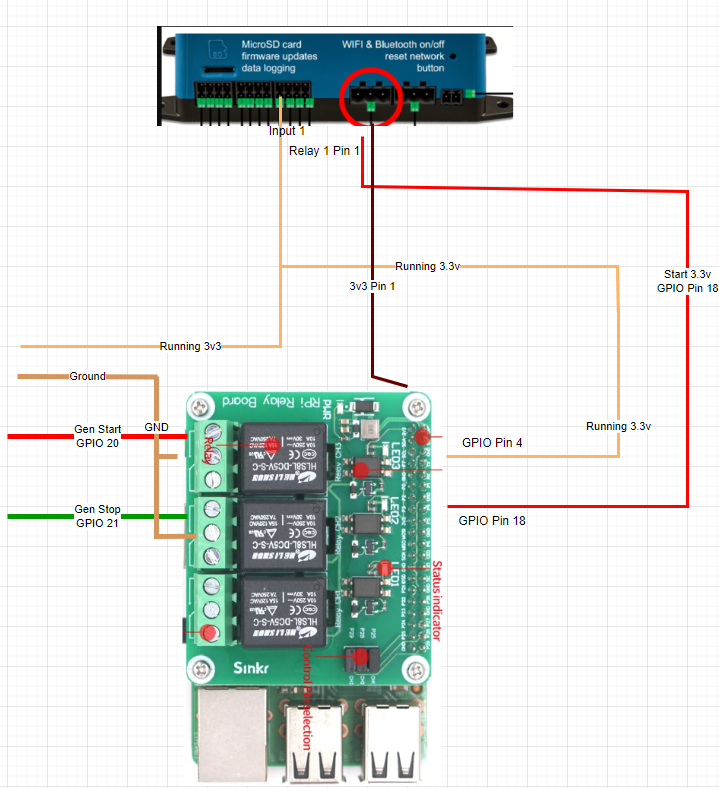
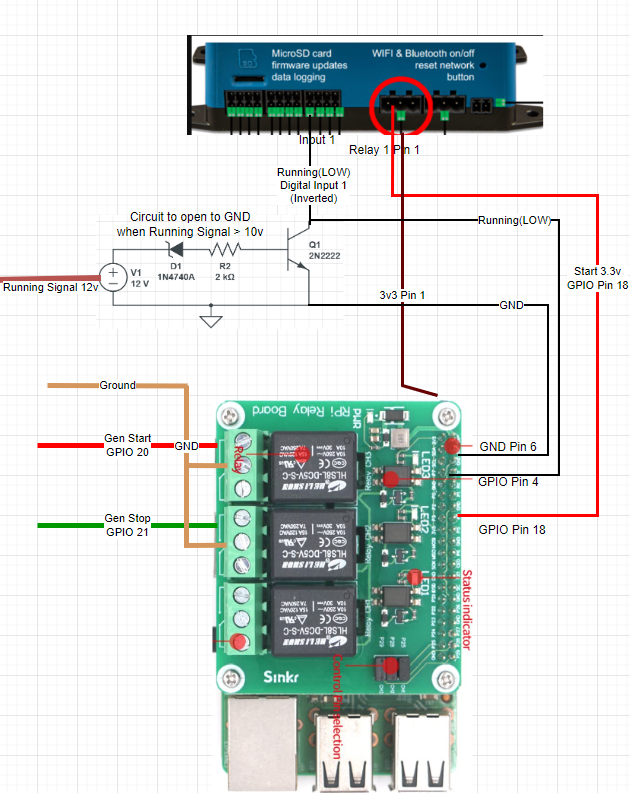
Changing to support low side running signal.

diff --git a/OnanGensetControl/Application.cs b/OnanGensetControl/Application.cs
@@ -50,7 +50,7 @@ public partial class Application : BackgroundService
         startRelay = pinControlFactory.CreateRelayControl(startPin, PinMode.Output, PinValue.High, loggerFactory);
         stopRelay = pinControlFactory.CreateRelayControl(stopPin, PinMode.Output, PinValue.High, loggerFactory);
         runCommandInput = pinControlFactory.CreateRelayControl(runControlPin, PinMode.Input, PinValue.Low, loggerFactory);
-        statusInput = pinControlFactory.CreateRelayControl(runningStatusPin, PinMode.InputPullDown, PinValue.Low, loggerFactory);
+        statusInput = pinControlFactory.CreateRelayControl(runningStatusPin, PinMode.InputPullUp, PinValue.High, loggerFactory);
 
         serviceFreq = TimeSpan.FromMilliseconds(Config.GetValue<int>("ServiceFreqMs"));
         stopDuration = TimeSpan.FromMilliseconds(Config.GetValue<int>("StopT4Ms"));
@@ -75,7 +75,7 @@ public partial class Application : BackgroundService
             var sw = Stopwatch.StartNew();
             try
             {
-                var running = statusInput.IsHigh;
+                var running = !statusInput.IsHigh; // Low is running
                 var runControl = runCommandInput.IsHigh;
                 Logger.LogDebug($"RunControl: {runControl}, Running: {running}, Failed: {failureTime is not null}");
 
@@ -183,7 +183,7 @@ public partial class Application : BackgroundService
             // Wait a moment after the start signal before getting the new status
             Logger.LogDebug($"Waiting for {startStatusCheckDelayDuration.TotalMilliseconds}ms before checking status...");
             await Task.Delay(startStatusCheckDelayDuration, stoppingToken);
-            running = statusInput.IsHigh;
+            running = !statusInput.IsHigh; // Low is running
             Logger.LogInformation($"Running status is now: {running}");
         }
         while (!running && tries < startRetries);
@@ -202,7 +202,7 @@ public partial class Application : BackgroundService
         // Wait a moment after the stop signal to let status stabilize
         Logger.LogDebug($"Waiting for {startStatusCheckDelayDuration} before checking status...");
         await Task.Delay(startStatusCheckDelayDuration, stoppingToken);
-        var running = statusInput.IsHigh;
+        var running = !statusInput.IsHigh; // Low is running
         Logger.LogInformation($"Running status is now: {running}");
 
         // See if we were successful
